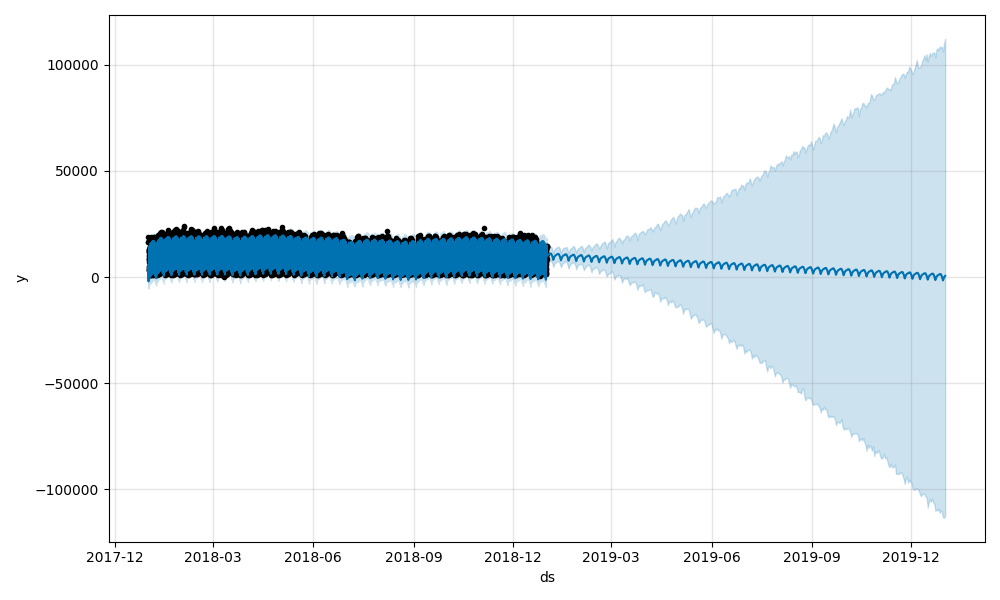
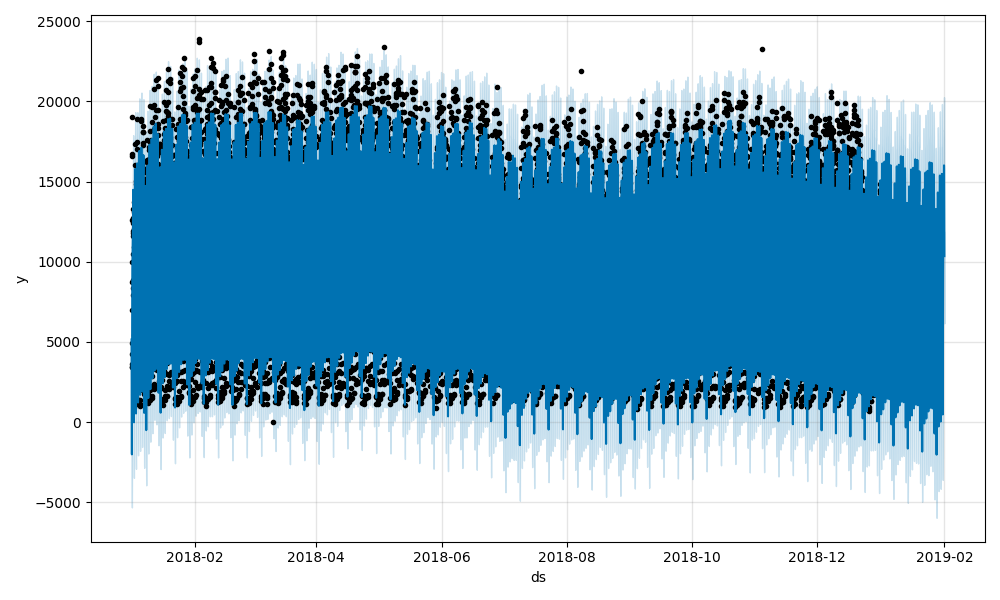
Start Testing

diff --git a/assignment1.py b/assignment1.py
@@ -24,12 +24,18 @@ modelFit = model.fit(data)
 # Create timeline for 1 year in future, 
 #   then generate predictions based on that timeline
 
-future = modelFit.make_future_dataframe(periods=365)
-pred = modelFit.predict(future)
+future = modelFit.make_future_dataframe(periods=31*24,freq='H')
+forecast = modelFit.predict(future)
+forecast
+
+
+pred = forecast[forecast['ds'] > modelFit.history['ds'].max()][['ds','trend']]
+pred['trend'] = pred['trend'].astype(int)
+pred
 
 
 # Create plots of forecast and truth, 
 #   as well as component breakdowns of the trends
-plt = modelFit.plot(pred)
+plt = modelFit.plot(forecast)
 plt.savefig("prophet.png")
-comp = modelFit.plot_components(pred)
+comp = modelFit.plot_components(forecast)
